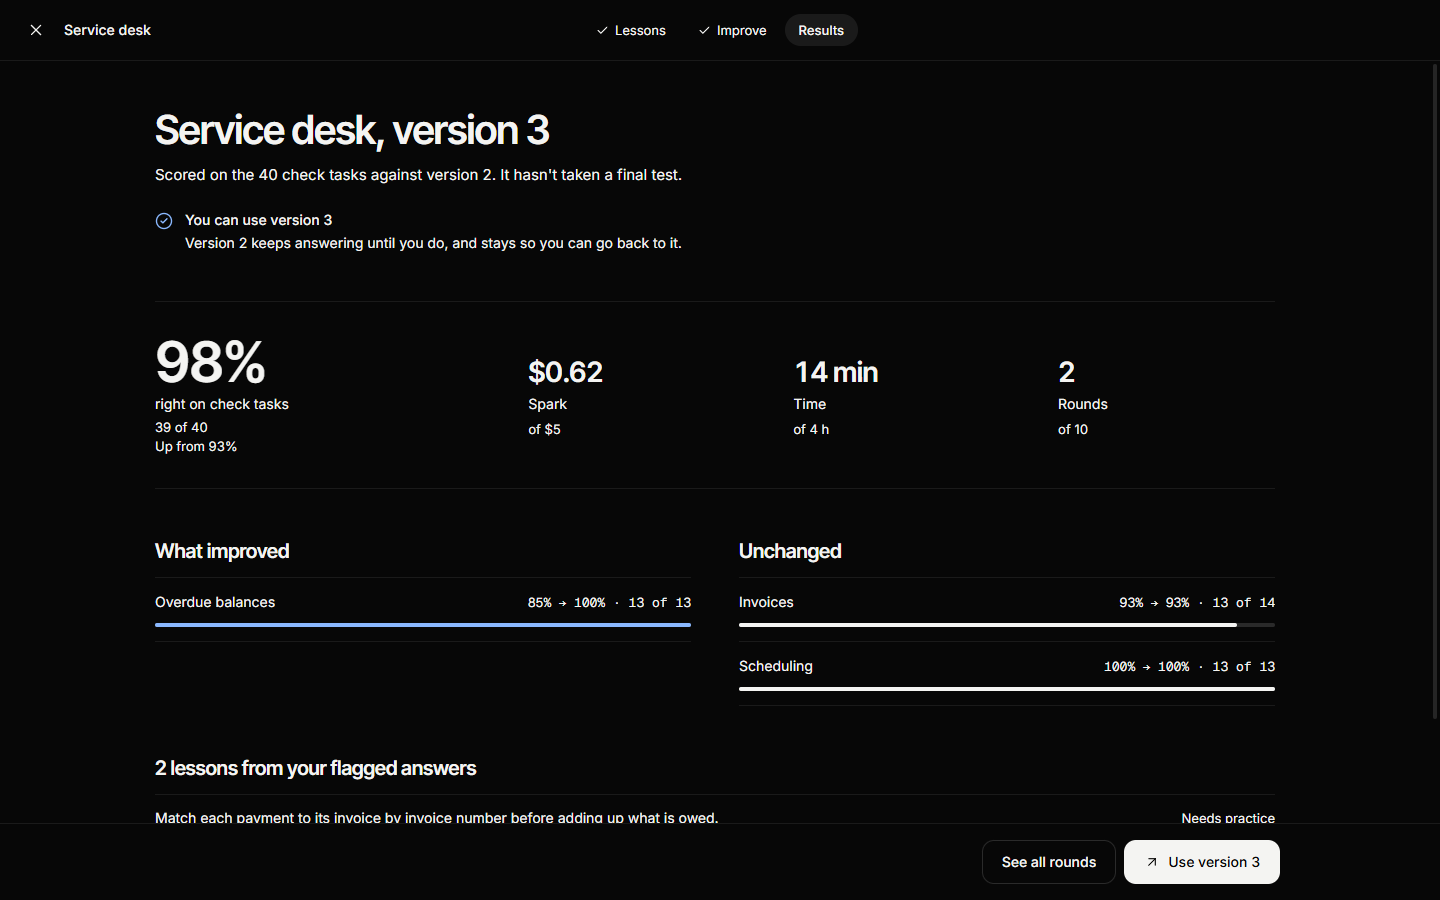
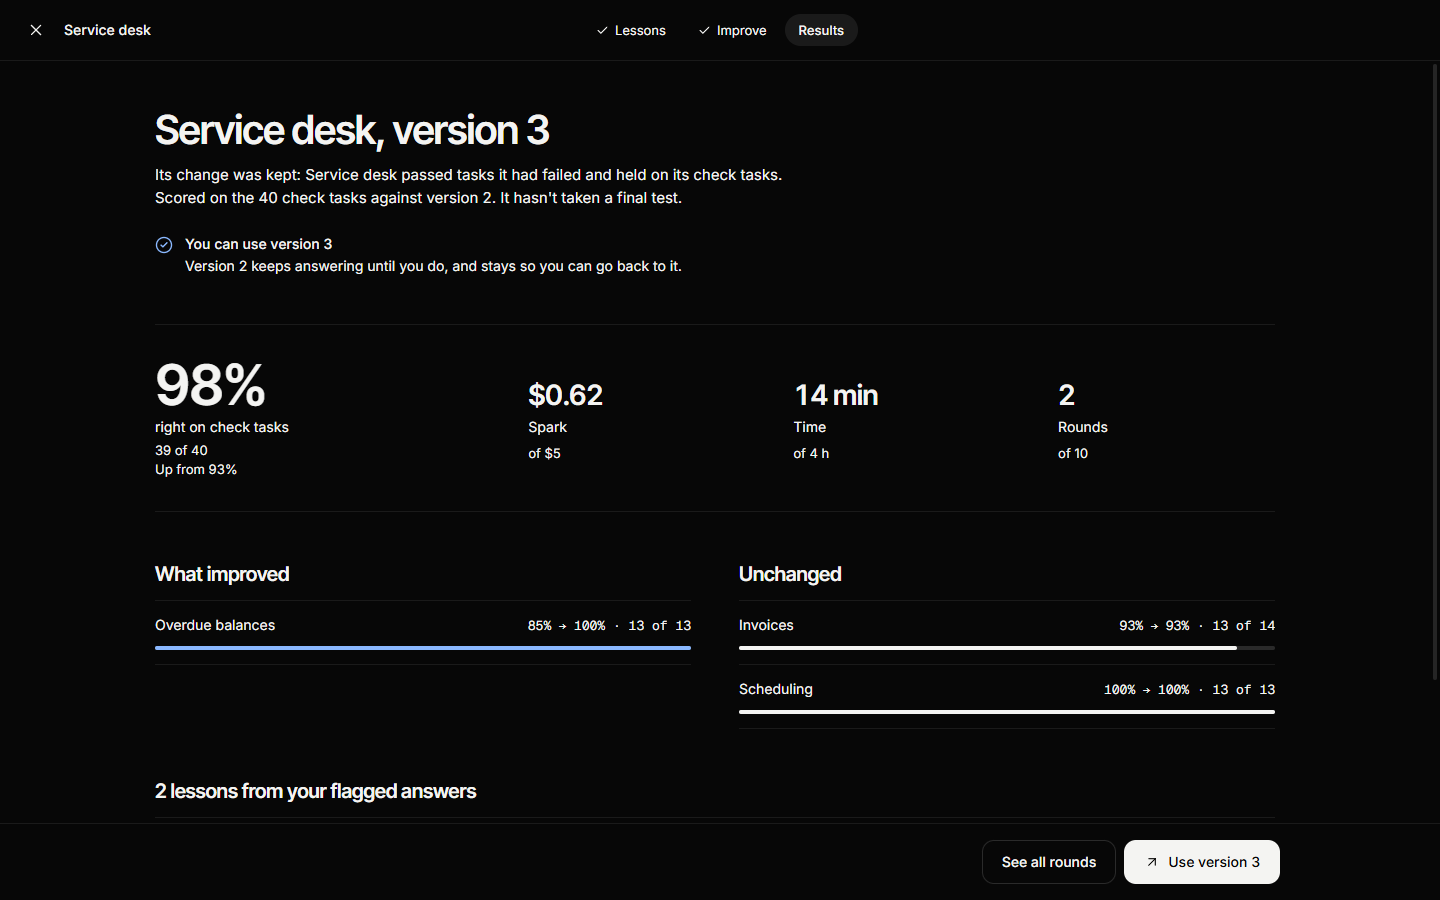
feat(desktop): say in the improvement report whether the agent learned each lesson
Each lesson reads Learned, Not learned or Not verified with the line that says
why, beside whether the change was kept; the per-type check-task lines stay
before and after. Screenshots retaken from the hidden teaching spec, and the
one of a lesson saved straight as a version is gone with the button.

diff --git a/apps/desktop/src/renderer/src/flow/improve/ImprovementView.tsx b/apps/desktop/src/renderer/src/flow/improve/ImprovementView.tsx
@@ -1,6 +1,14 @@
 import type { ReactNode } from 'react';
-import type { Correction, Improvement, Job, Run, Score } from '@architect/shared';
-import { Heading, Meter, Stagger, StaggerItem, Stat, StatusMark } from '@architect/ui';
+import type { Correction, Improvement, Job, LessonVerdict, Run, Score } from '@architect/shared';
+import {
+  Heading,
+  Meter,
+  Stagger,
+  StaggerItem,
+  Stat,
+  StatusMark,
+  type MarkState,
+} from '@architect/ui';
 import { formatDuration, formatUsd } from '../../lib/format';
 import { KIND_LABELS, lessonCount } from '../../workspace/teach/lessons';
 import { formatRate, percent, rate } from '../format';
@@ -36,6 +44,13 @@ export function fromBefore(before: Score, after: Score): string {
   return 'Same as before';
 }
 
+/** Whether the student learned a lesson, as a mark and a word or two. */
+const VERDICTS: Record<LessonVerdict, { mark: MarkState; label: string }> = {
+  learned: { mark: 'ok', label: 'Learned' },
+  not_learned: { mark: 'off', label: 'Not learned' },
+  not_verified: { mark: 'attention', label: 'Not verified' },
+};
+
 function cents(amount: number): string {
   return formatUsd(Math.round(amount * 100) / 100);
 }
@@ -52,9 +67,10 @@ interface ImprovementViewProps {
 }
 
 /**
- * What an improvement changed: its new version's score on the check tasks against the version it
- * started from, per task type what got better and what didn't, what it spent, the lessons it was
- * taught, and whether the new version may be used. It never takes the final test, and says so.
+ * What an improvement changed: whether its change was kept, its new version's score on the check
+ * tasks against the version it started from, per task type what got better and what didn't, what
+ * it spent, whether the agent learned each lesson (decision 066), and whether the new version may
+ * be used. It never takes the final test, and says so.
  */
 export function ImprovementView({
   improvement,
@@ -82,8 +98,8 @@ export function ImprovementView({
           </Heading>
           <p className="m-0 max-w-[660px] text-body text-pretty">
             {made
-              ? `Scored on the ${job.splits.dev} check tasks against version ${improvement.fromVersion}. It hasn't taken a final test.`
-              : `Version ${improvement.fromVersion} stays as it was, and its lessons are back in the queue.`}
+              ? `Its change was kept: ${name} passed tasks it had failed and held on its check tasks. Scored on the ${job.splits.dev} check tasks against version ${improvement.fromVersion}. It hasn't taken a final test.`
+              : `No change was kept. Version ${improvement.fromVersion} stays as it was, and its lessons are back in the queue.`}
           </p>
         </header>
         <div role="status" className="flex items-start gap-3">
@@ -165,16 +181,33 @@ export function ImprovementView({
       {lessons.length > 0 && (
         <StaggerItem>
           <Section title={`${lessonCount(lessons.length)} from your flagged answers`} id="lessons">
-            <ul className="m-0 list-none border-b border-line p-0">
-              {lessons.map((lesson) => (
-                <li
-                  key={lesson.id}
-                  className="grid min-h-12 grid-cols-[minmax(0,1fr)_auto] items-center gap-x-4 border-t border-line py-2.5"
-                >
-                  <span className="text-pretty">{lesson.proposal.lesson}</span>
-                  <span className="text-small">{KIND_LABELS[lesson.proposal.kind]}</span>
-                </li>
-              ))}
+            <ul aria-label="Lessons" className="m-0 list-none border-b border-line p-0">
+              {lessons.map((lesson) => {
+                const outcome = improvement.lessons.find(
+                  ({ correctionId }) => correctionId === lesson.id,
+                );
+                const verdict = outcome && VERDICTS[outcome.verdict];
+                return (
+                  <li
+                    key={lesson.id}
+                    aria-label={lesson.proposal.lesson}
+                    className="grid min-h-12 grid-cols-[minmax(0,1fr)_auto] items-center gap-x-4 gap-y-1 border-t border-line py-2.5"
+                  >
+                    <span className="text-pretty">{lesson.proposal.lesson}</span>
+                    {verdict ? (
+                      <span className="flex items-center gap-2 font-medium">
+                        <StatusMark state={verdict.mark} size={16} />
+                        {verdict.label}
+                      </span>
+                    ) : (
+                      <span className="text-small">{KIND_LABELS[lesson.proposal.kind]}</span>
+                    )}
+                    {outcome && (
+                      <span className="col-span-2 text-small text-pretty">{outcome.reason}</span>
+                    )}
+                  </li>
+                );
+              })}
             </ul>
           </Section>
         </StaggerItem>
